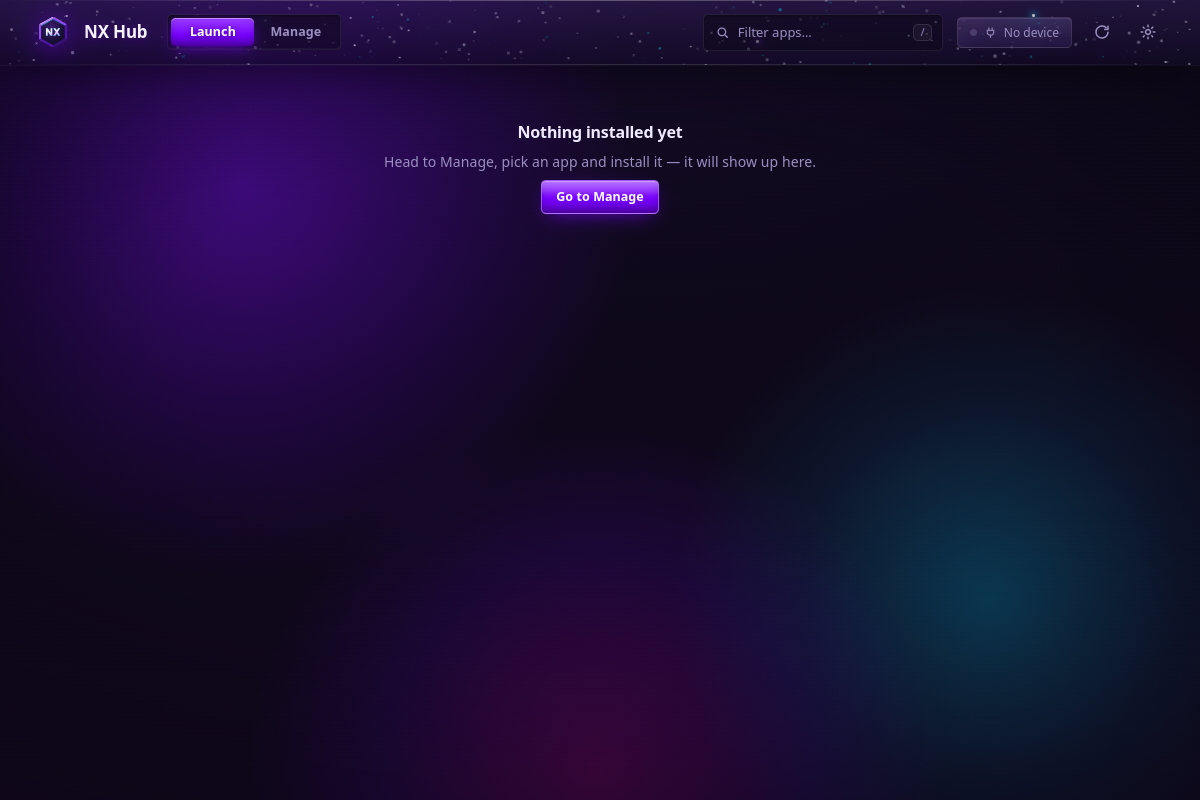
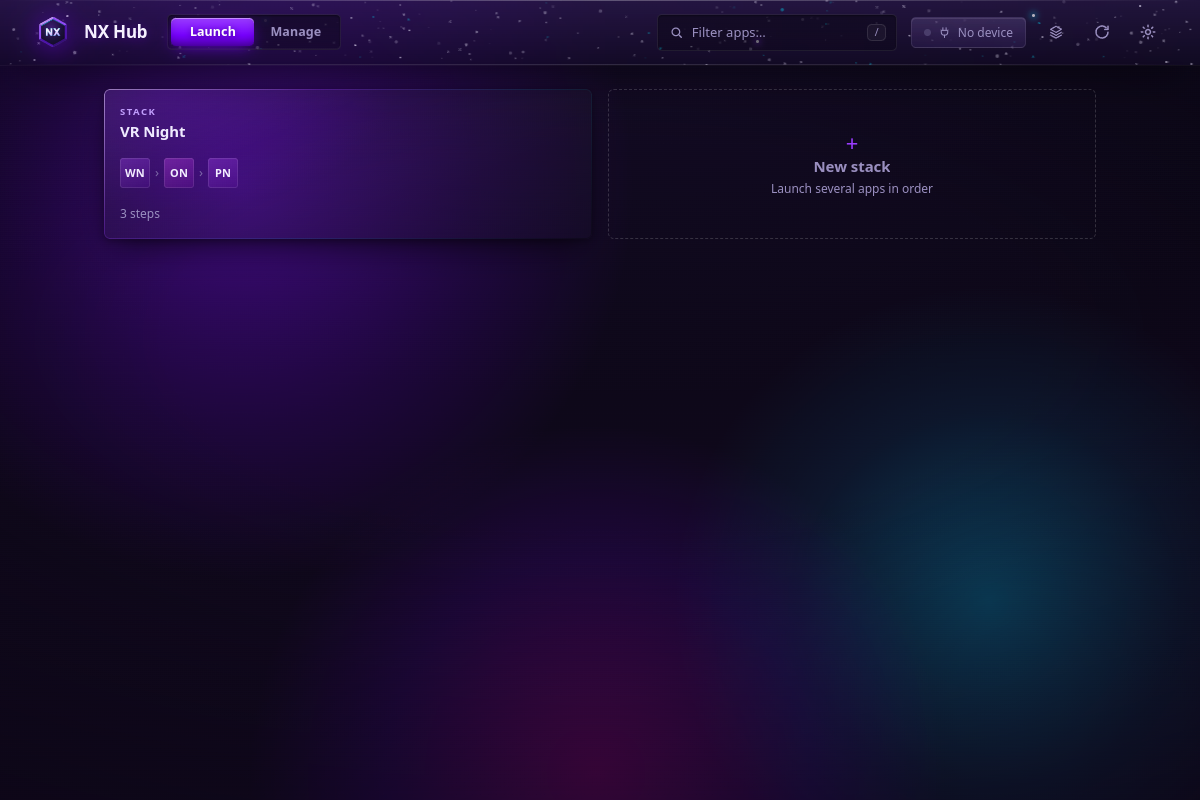
v0.5.0: the NX Connector — live app status on cards/tiles/tray/CLI, stacks with health-gated launches, README + live screenshots

diff --git a/test/e2e.js b/test/e2e.js
@@ -283,6 +283,13 @@ async function main() {
       { label: "app cards rendered", timeout: 30000 }
     ).catch(() => null);
     check(Boolean(painted), "renderer painted real .card elements (ESM loaded under file://)");
+    const contentOk = Boolean(painted) && /LIMBO PROTOCOL/i.test(painted) && !/card-skel/.test(painted);
+    if (!contentOk && painted) {
+      const dumpPath = path.join(SCRATCH, "nx-hub-e2e-dom.html");
+      fs.mkdirSync(SCRATCH, { recursive: true });
+      fs.writeFileSync(dumpPath, painted);
+      console.log(`  (dom dumped → ${dumpPath})`);
+    }
     check(Boolean(painted) && /LIMBO PROTOCOL/i.test(painted), "card content comes from discovery");
     check(Boolean(painted) && !/card-skel/.test(painted), "skeleton replaced by real cards");
 

diff --git a/README.md b/README.md
@@ -11,7 +11,7 @@
 [![release](https://img.shields.io/github/v/release/nerdrx/nx-hub?display_name=tag&color=7700FF&labelColor=171028)](https://github.com/nerdrx/nx-hub/releases/latest)
 [![license](https://img.shields.io/badge/license-MIT-00e5ff?labelColor=171028)](LICENSE)
 ![platforms](https://img.shields.io/badge/linux%20·%20windows%20·%20android-efeaff?label=platforms&labelColor=171028)
-![tests](https://img.shields.io/badge/tests-494%20passing-00e5ff?labelColor=171028)
+![tests](https://img.shields.io/badge/tests-654%20passing-00e5ff?labelColor=171028)
 
 <br>
 
@@ -45,6 +45,7 @@ every device, simultaneously.
 - [The integrity pipeline](#the-integrity-pipeline)
 - [Update orchestration](#update-orchestration)
 - [Device support](#device-support)
+- [The Connector](#the-connector)
 - [The terminal](#the-terminal)
 - [The Android companion](#the-android-companion)
 - [Getting started](#getting-started)
